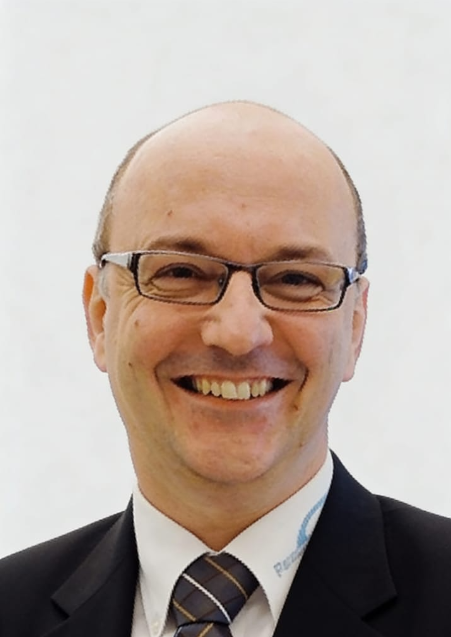
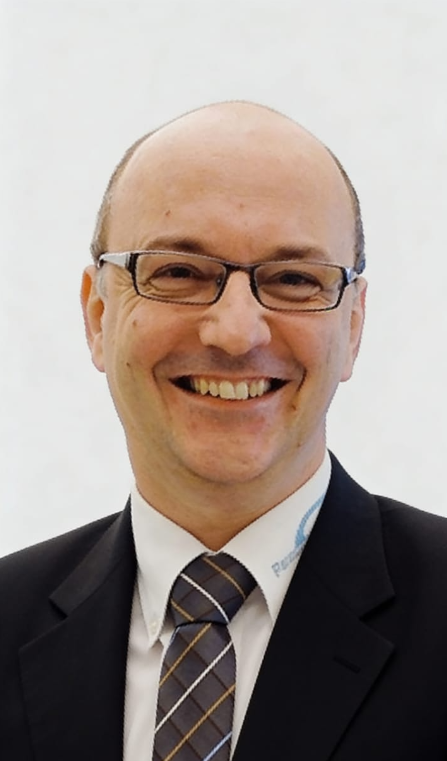
img product

diff --git a/index.html b/index.html
@@ -1365,13 +1365,12 @@
                 <!-- EXPERT 6 -->
                 <div class="expert-card">
                     <div class="expert-img-wrap">
-                        <img src="assets/images/expert-10.jpg" alt="Dr Haryani">
+                        <img src="assets/images/expert-9.png" alt="Dr. Simon Feldhaus">
                         <div class="expert-img-placeholder"><span>Photo</span></div>
                     </div>
                     <div class="expert-info">
-                        <h3>Dr Haryani</h3>
-                        <p>Medical Specialist in Aesthetics Medicine / Medical Director and Owner of Clinic TIARA
-                            ESTETIKA, Indonesia</p>
+                        <h3>Dr. Simon Feldhaus</h3>
+                        <p>President Swiss Society of Anti-Ageing Medicine & Pevention (SSAAMP) Chief Physician of Paramed Group. Consulting Physician in Integrative & Longevity Medicine</p>
                     </div>
                 </div>
 
@@ -1600,7 +1599,7 @@
 
                     <div class="product-3d-img-wrap">
                         <div class="product-3d-img" id="float-phytogreen">
-                            <img src="assets/images/zell-v phytogreen.png" alt="ZÉLL-V Phytogreen">
+                            <img src="assets/images/ZV Phytogreen.png" alt="ZÉLL-V Phytogreen">
                         </div>
                         <div class="product-float-shadow"></div>
                     </div>
@@ -1649,7 +1648,7 @@
 
                     <div class="product-3d-img-wrap">
                         <div class="product-3d-img" id="float-platinum">
-                            <img src="assets/images/zell-v platinium plus3.png" alt="ZÉLL-V Platinum Plus 3">
+                            <img src="assets/images/ZVPP3.png" alt="ZÉLL-V Platinum Plus 3">
                         </div>
                         <div class="product-float-shadow"></div>
                     </div>
@@ -1684,7 +1683,7 @@
                                         stroke-width="1.5" stroke-linecap="round" stroke-linejoin="round" />
                                     <circle cx="12" cy="10" r="2.5" stroke="currentColor" stroke-width="1.5" />
                                 </svg>
-                                Aging
+                                Ageing
                             </span>
                         </div>
                     </div>
@@ -1698,7 +1697,7 @@
 
                     <div class="product-3d-img-wrap">
                         <div class="product-3d-img" id="float-nmn">
-                            <img src="assets/images/zell-v nmn.png" alt="ZÉLL-V NMN">
+                            <img src="assets/images/ZV NMN.png" alt="ZÉLL-V NMN">
                         </div>
                         <div class="product-float-shadow"></div>
                     </div>
@@ -1733,7 +1732,7 @@
                                     <path d="M12 7v5l3.5 2" stroke="currentColor" stroke-width="1.5"
                                         stroke-linecap="round" stroke-linejoin="round" />
                                 </svg>
-                                Anti-Aging
+                                Anti-Ageing
                             </span>
                         </div>
                     </div>
